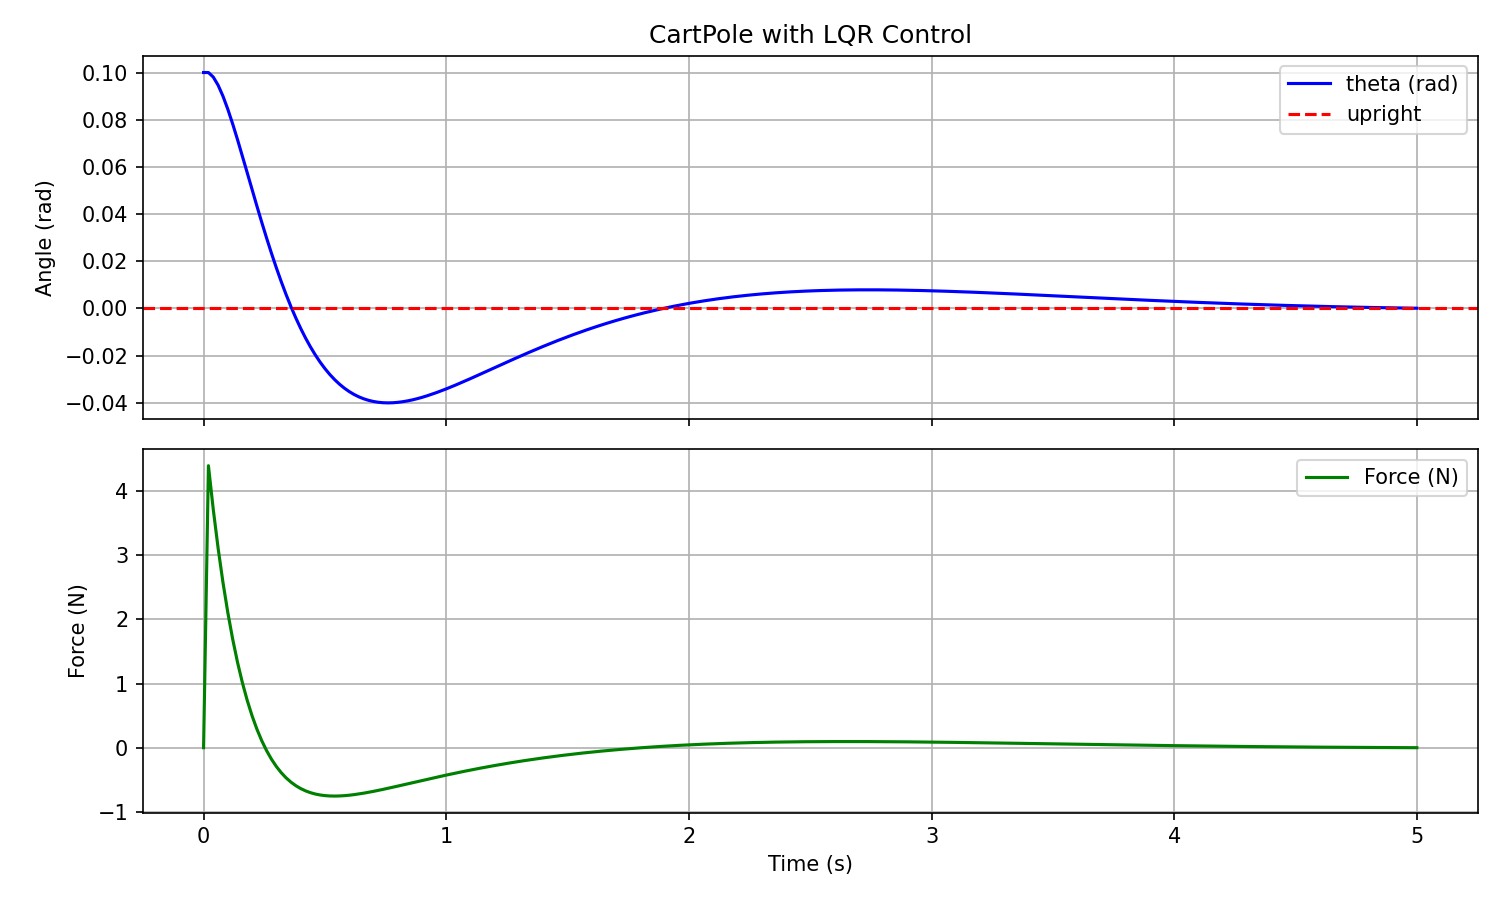
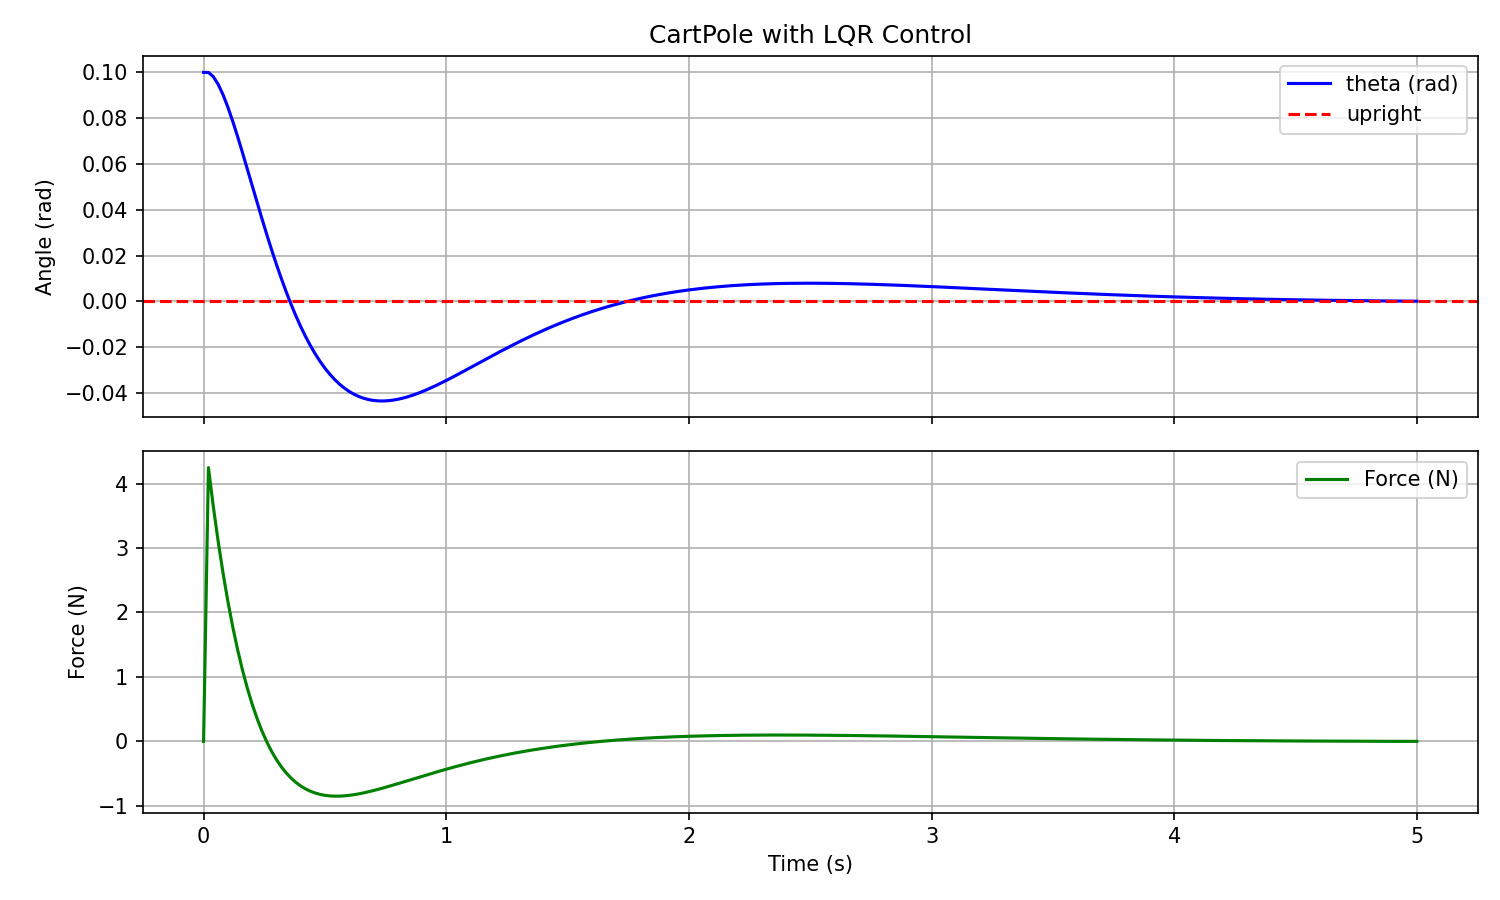
feat: cascade PID works but slow, compare LQR/PID/cascade-PID

diff --git a/controller.py b/controller.py
@@ -18,7 +18,7 @@ A = np.array([
 
 B = np.array([
     [0],
-    [4 / (4 * M) + m],
+    [4 / (4 * M + m)],
     [0],
     [-3 / (l * (4 * M + m))]
 ])
@@ -52,3 +52,64 @@ def lqr_controller(state):
     u = np.clip(u, -20.0, 20.0)
     return float(u)
 
+class PID_controller:
+    def __init__(self, Kp, Ki, Kd, dt):
+        self.Kp = Kp
+        self.Ki = Ki
+        self.Kd = Kd
+        self.dt = dt
+        self.integral = 0.0
+        self.prev_error = 0.0
+
+    def __call__(self, state):
+        theta = state[2]        # 摆杆角度
+        error = theta           #目标角度作为误差量
+
+        self.integral += error * self.dt                        # 积分
+        derivative = (error - self.prev_error) / self.dt        # 微分
+        self.prev_error = error
+
+        u = (self.Kp * error + self.Ki * self.integral + self.Kd * derivative)
+        return np.clip(u, -20.0, 20.0)                   # 限幅
+
+
+class CascadePID_controller:
+    def __init__ (self, Kp_pos, Kd_pos, Kp_angle,
+                  Ki_angle, Kd_angle, dt):
+        # 外环
+        self.Kp_pos = Kp_pos
+        self.Kd_pos = Kd_pos
+
+        # 内环
+        self.Kp_angle = Kp_angle
+        self.Ki_angle = Ki_angle
+        self.Kd_angle = Kd_angle
+        self.dt = dt
+
+        self.integral_angle = 0
+        self.prev_error_angle = 0
+
+    def __call__(self, state):
+        x, x_dot, theta, theta_dot = state
+
+        # 外环：根据位置偏差算期望角度
+        # x > 0（偏右）→ desired_theta < 0（左偏），
+        # 重力把小车拉回
+
+        desired_theta = -(self.Kp_pos * x + self.Kd_pos * x_dot)
+
+        # 限制期望角度，别让内环追不上
+        desired_theta = np.clip(desired_theta, -0.3, +0.3)
+
+        # 内环, 负责跟踪期望角度
+        error_angle = theta - desired_theta
+
+        self.integral_angle += error_angle * self.dt
+        derivative_angle = (error_angle - self.prev_error_angle) / self.dt
+        self.prev_error_angle = error_angle
+
+        u = (self.Kp_angle * error_angle +
+             self.Ki_angle * self.integral_angle +
+             self.Kd_angle * derivative_angle)
+
+        return np.clip(u, -20.0, +20.0)

diff --git a/simulation_cascade_pid.py b/simulation_cascade_pid.py
@@ -1,0 +1,62 @@
+import numpy as np
+import matplotlib.pyplot as plt
+from dynamics import step
+from controller import CascadePID_controller
+
+# 初始状态
+state = np.array([0.1, 0.0, 0.1, 0.0])
+dt = 0.02
+total_time = 30.0   # 给 10 秒，看位置是否回来
+steps = int(total_time / dt)
+
+# 串级 PID 参数（先给一组初值）
+cascade_pid = CascadePID_controller(
+    Kp_pos=0.21,    # 位置比例
+    Kd_pos=0.02,    # 位置微分
+    Kp_angle=200.0,# 角度比例
+    Ki_angle=0.01,  # 角度积分
+    Kd_angle=15.0, # 角度微分
+    dt=dt
+)
+
+history = [state.copy()]
+actions = [0.0]
+
+for i in range(steps):
+    action = cascade_pid(state)
+    state = step(state, action, dt)
+    history.append(state.copy())
+    actions.append(action)
+
+history = np.array(history)
+actions = np.array(actions)
+time = np.arange(len(history)) * dt
+
+# 画图：位置 + 角度 + 力
+fig, axes = plt.subplots(3, 1, figsize=(10, 8), sharex=True)
+
+axes[0].plot(time, history[:, 0], label='x (m)', color='purple')
+axes[0].axhline(y=0, color='r', linestyle='--', label='target position')
+axes[0].set_ylabel('Position (m)')
+axes[0].set_title('CartPole with Cascade PID')
+axes[0].legend()
+axes[0].grid(True)
+
+axes[1].plot(time, history[:, 2], label='theta (rad)', color='blue')
+axes[1].axhline(y=0, color='r', linestyle='--', label='upright')
+axes[1].set_ylabel('Angle (rad)')
+axes[1].legend()
+axes[1].grid(True)
+
+axes[2].plot(time, actions, label='Force (N)', color='green')
+axes[2].set_xlabel('Time (s)')
+axes[2].set_ylabel('Force (N)')
+axes[2].legend()
+axes[2].grid(True)
+
+plt.tight_layout()
+plt.savefig('results/cascade_pid_control.png', dpi=150)
+plt.show()
+
+print(f"最终小车位置 x = {history[-1, 0]:.3f} m")
+print(f"最终摆杆角度 theta = {history[-1, 2]:.6f} rad")

diff --git a/simulation_pid.py b/simulation_pid.py
@@ -1,0 +1,51 @@
+import numpy as np
+from controller import PID_controller
+from dynamics import step
+import matplotlib.pyplot as plt
+
+# 初始状态
+state = np.array([0.0, 0.0, 0.1, 0.0])
+dt = 0.02
+total_time = 5.0
+steps = int(total_time / dt)
+
+# 给定初值 返回u
+pid = PID_controller(Kp=200.0, Ki=0.0, Kd=15, dt=dt)        # 对象
+
+# 记录数据
+history = [state.copy()]
+actions = [0.0]
+
+# PID闭环控制
+for i in range(steps):
+    action = pid(state)
+    state = step(state, action, dt)
+    history.append(state.copy())
+    actions.append(action)
+
+history = np.array(history)
+actions = np.array(actions)
+time = np.arange(len(history)) * dt
+
+# 画图
+fig, axes = plt.subplots(2, 1, figsize=(10, 6), sharex=True)
+
+axes[0].plot(time, history[:, 2], label='theta (rad)', color='blue')
+axes[0].axhline(y=0, color='r', linestyle='--', label='upright')
+axes[0].set_ylabel('Angle (rad)')
+axes[0].set_title('CartPole with PID Control')
+axes[0].legend()
+axes[0].grid(True)
+
+axes[1].plot(time, actions, label='Force (N)', color='green')
+axes[1].set_xlabel('Time (s)')
+axes[1].set_ylabel('Force (N)')
+axes[1].legend()
+axes[1].grid(True)
+
+plt.tight_layout()
+plt.savefig('results/pid_control.png', dpi=150)
+plt.show()
+print("图已保存到 results/pid_control.png")
+print(f"最终小车位置 x = {history[-1, 0]:.3f} m")
+print(f"最终摆杆角度 theta = {history[-1, 2]:.6f} rad")